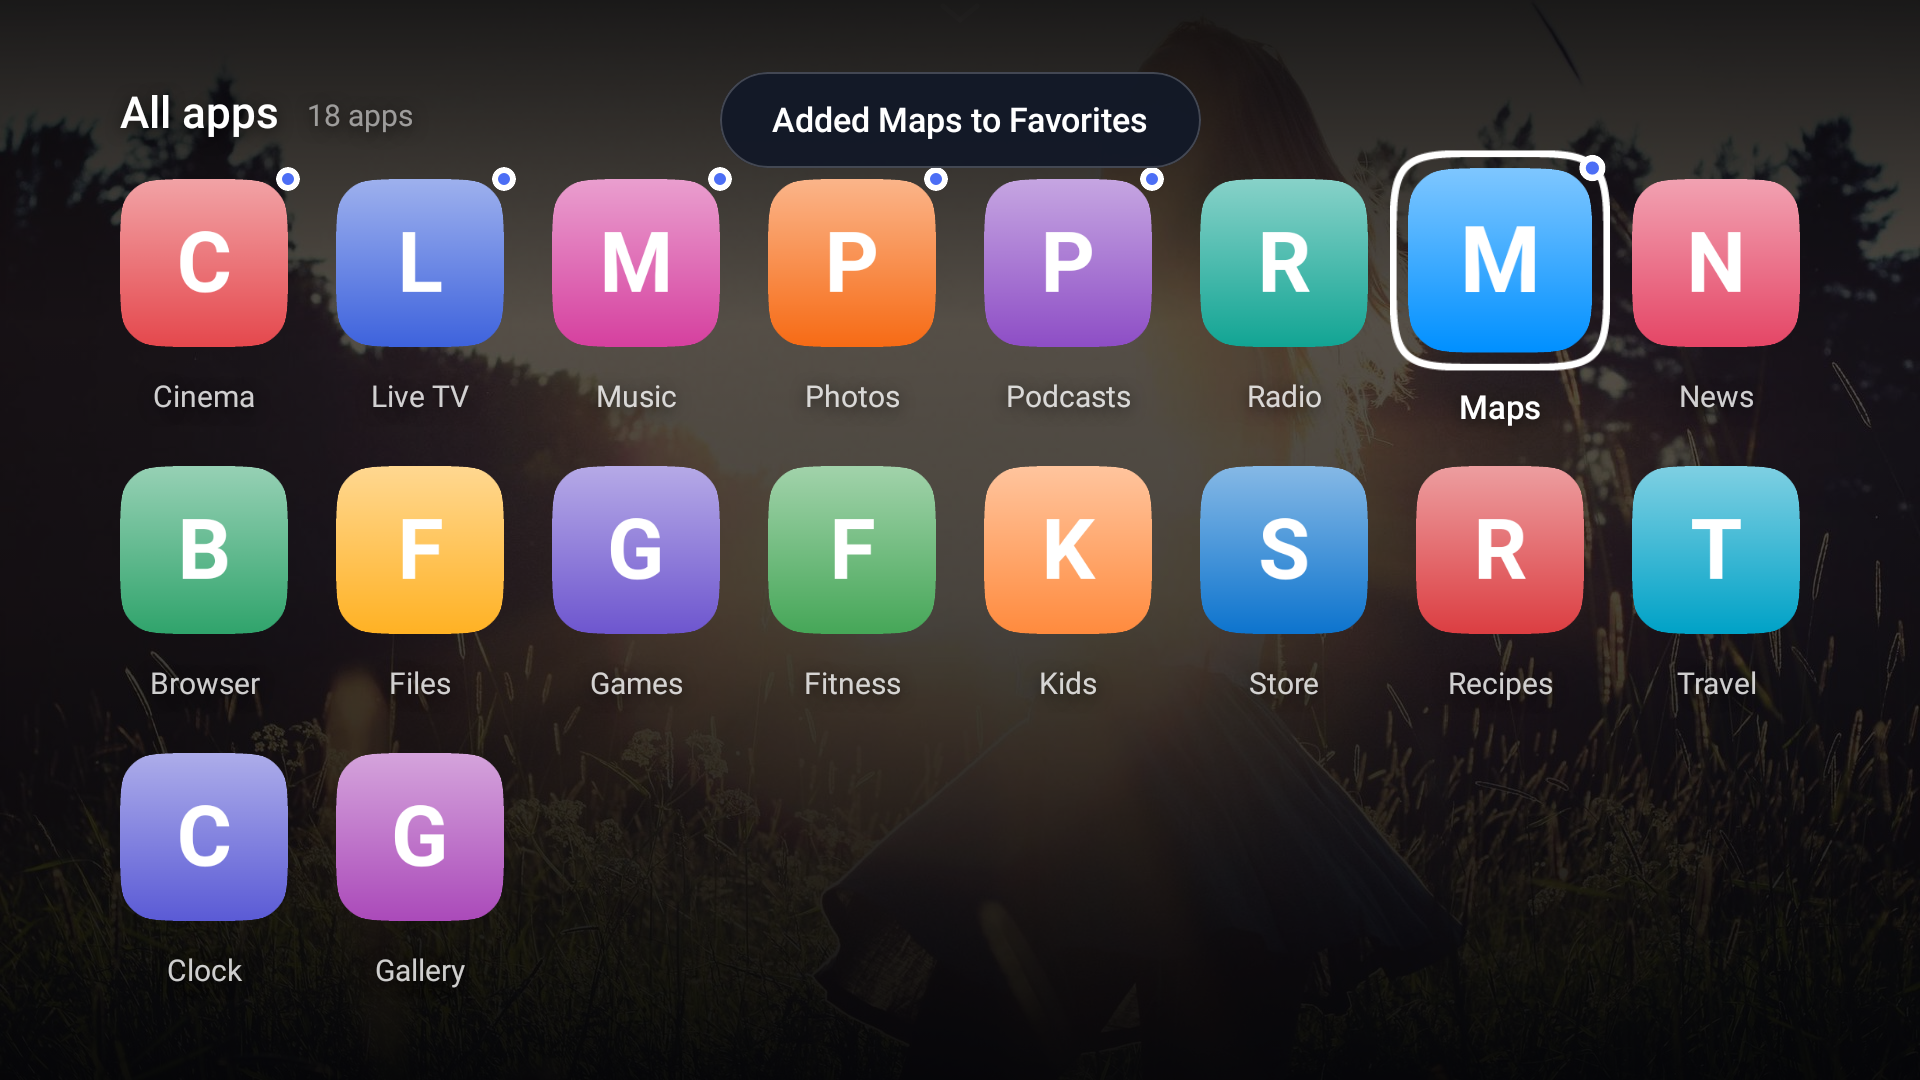
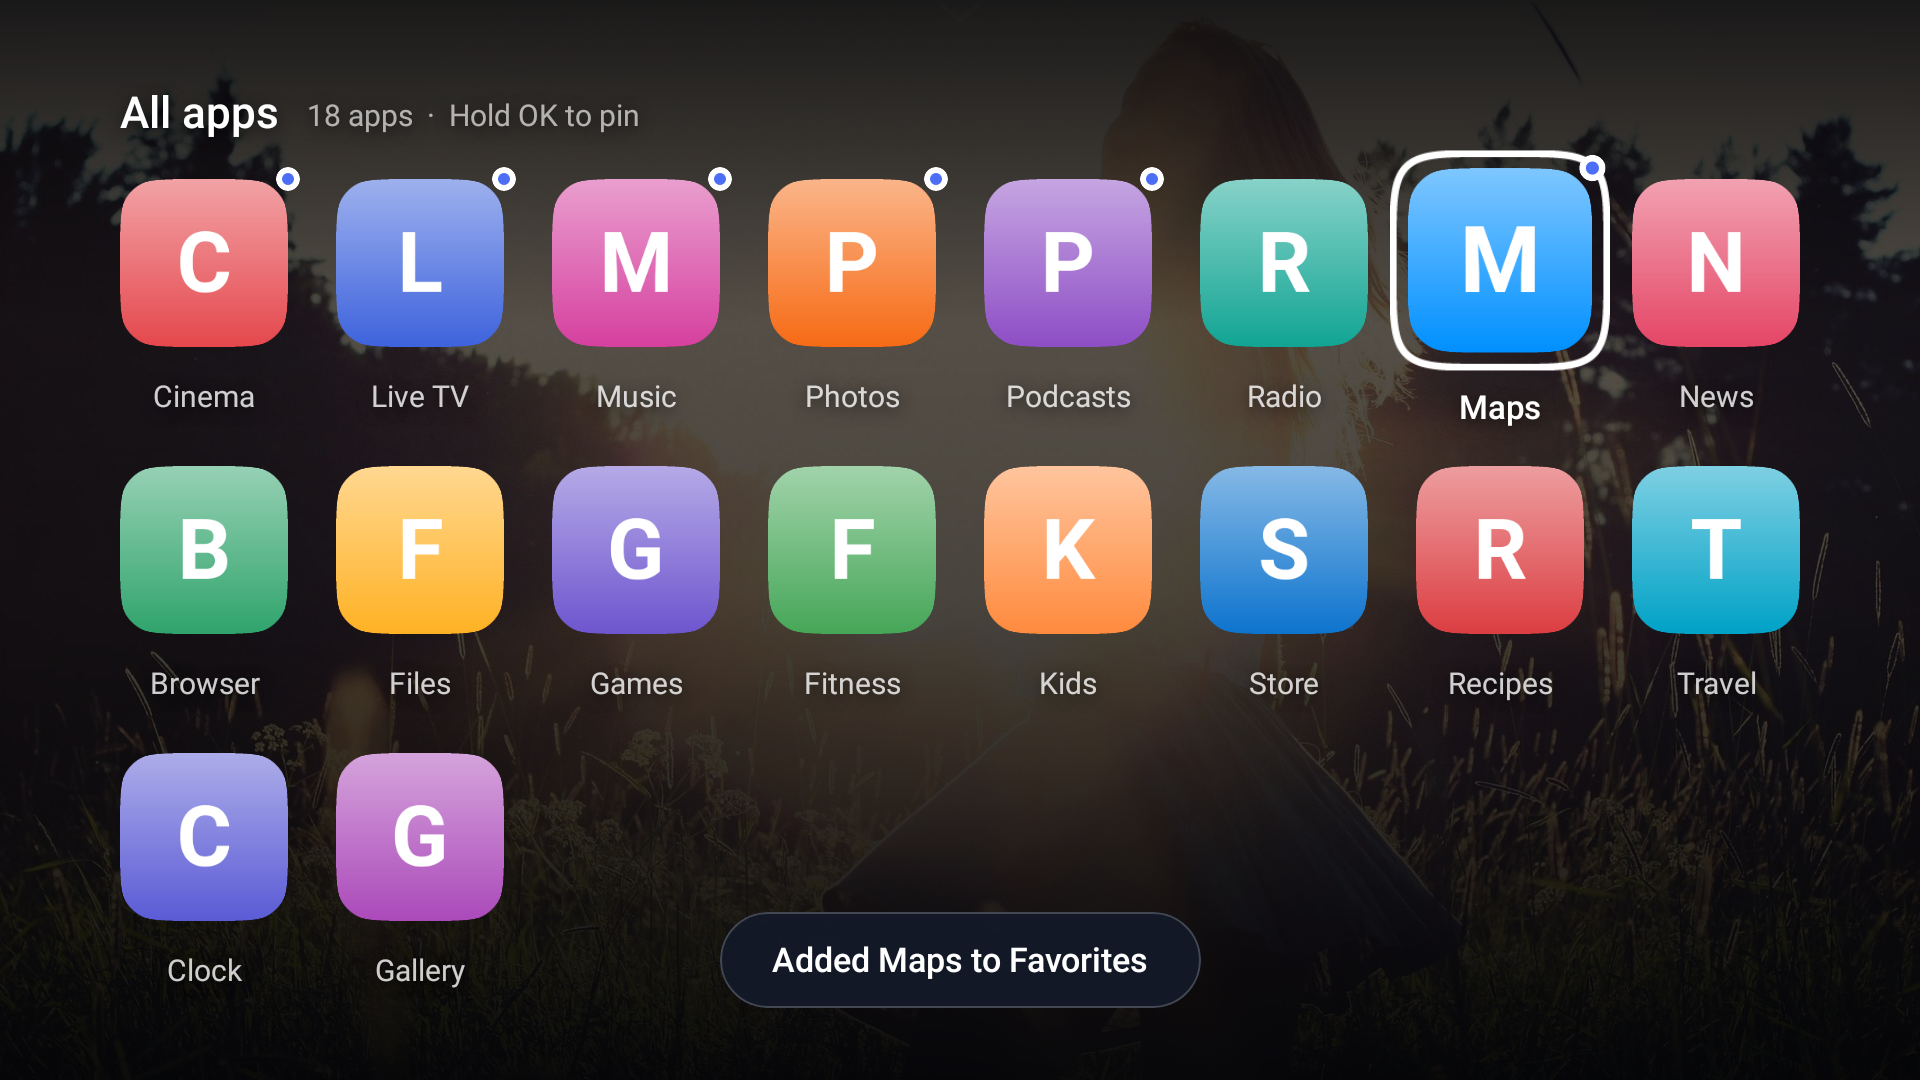
Pill Launcher 1.2: Back/Home behaviour and UI polish (#6)
* Iron out UI quirks: Back/Home return to the first page, toast clear of the weather

- Back in All apps and Home while already home return to the first page
  (Home also closes settings)
- The pin/unpin message moves to the bottom so it no longer covers the weather
- The favourites row bleeds into the margins so a focused tile's ring is not
  clipped at the left edge
- The All apps arrow bobs three times and stops instead of animating forever,
  so the home screen can go idle
- Weather fades in when it arrives instead of popping in
- First-page focus retries frame by frame instead of trusting a fixed delay
- All apps hint mentions Hold OK to pin; faint text slightly more legible

Claude-Session: https://claude.ai/code/session_01K2a1gPavAD836buEZXZJS4

* Update README screenshots

* Fix first-page focus landing on the pill before the favourites row registers

Claude-Session: https://claude.ai/code/session_01K2a1gPavAD836buEZXZJS4

* Update README screenshots

* Version 1.2

Claude-Session: https://claude.ai/code/session_01K2a1gPavAD836buEZXZJS4

---------

Changed region(s): [[0.375, 0.8556, 0.625, 0.9472], [0.375, 0.0917, 0.625, 0.1528], [0.2188, 0.0917, 0.3438, 0.1222]]

diff --git a/app/src/main/java/app/pill/launcher/ui/LauncherScreen.kt b/app/src/main/java/app/pill/launcher/ui/LauncherScreen.kt
@@ -1,6 +1,17 @@
 package app.pill.launcher.ui
 
+import androidx.activity.compose.BackHandler
+import androidx.compose.animation.AnimatedContent
 import androidx.compose.animation.AnimatedVisibility
+import androidx.compose.animation.core.Animatable
+import androidx.compose.animation.togetherWith
+import androidx.compose.foundation.layout.PaddingValues
+import androidx.compose.runtime.rememberCoroutineScope
+import androidx.compose.runtime.rememberUpdatedState
+import androidx.compose.runtime.withFrameNanos
+import androidx.compose.ui.layout.layout
+import androidx.compose.ui.unit.Dp
+import kotlinx.coroutines.launch
 import androidx.compose.animation.core.AnimationSpec
 import androidx.compose.animation.core.FastOutSlowInEasing
 import androidx.compose.animation.core.RepeatMode
@@ -91,6 +102,8 @@ fun LauncherScreen(
     onOpen: (AppEntry) -> Unit,
     onTogglePin: (AppEntry) -> Unit,
     onOpenSystemSettings: () -> Unit,
+    /** Bumped each time Home is pressed while the launcher is already showing. */
+    homePresses: Int = 0,
 ) {
     var panelOpen by remember { mutableStateOf(false) }
     var initialFocusDone by remember { mutableStateOf(false) }
@@ -114,14 +127,40 @@ fun LauncherScreen(
         toast = Toast(if (wasPinned) "Removed ${app.label} from Favorites" else "Added ${app.label} to Favorites")
     }
 
-    // First launch: focus the first favourite, else the settings pill, so the opening view is the first page
+    val scroll = rememberScrollState()
+    val scope = rememberCoroutineScope()
+    val currentPinned by rememberUpdatedState(pinnedApps)
+
+    // Focus the first favourite, else the settings pill. Page scrolling then brings the first
+    // page into view. Retries for a few frames until the target is attached.
+    suspend fun focusFirstPage() {
+        repeat(30) {
+            withFrameNanos { }
+            // The favourites row registers its tiles a frame or two after it first composes,
+            // so look the target up on every try and only use the pill when there are no favourites
+            val first = currentPinned.firstOrNull()
+            val target = if (first == null) pillFocus else favoriteFocus[first.pkg]
+            if (target != null && runCatching { target.requestFocus() }.isSuccess) return
+        }
+        runCatching { pillFocus.requestFocus() }
+    }
+
     LaunchedEffect(apps != null) {
         if (apps == null || initialFocusDone) return@LaunchedEffect
-        delay(150)
-        val target = pinnedApps.firstOrNull()?.let { favoriteFocus[it.pkg] } ?: pillFocus
-        runCatching { target.requestFocus() }
+        focusFirstPage()
         initialFocusDone = true
     }
+
+    // Home while already home: close settings and go back to the first page
+    LaunchedEffect(homePresses) {
+        if (homePresses == 0) return@LaunchedEffect
+        panelOpen = false
+        focusFirstPage()
+    }
+
+    // Back in All apps returns to the first page (on the first page, Back does nothing)
+    val scrolled by remember { derivedStateOf { scroll.value > 0 } }
+    BackHandler(enabled = scrolled && !panelOpen) { scope.launch { focusFirstPage() } }
 
     // Return focus to the pill when the settings panel closes
     LaunchedEffect(panelOpen) {
@@ -160,7 +199,6 @@ fun LauncherScreen(
             val pageEdge = maxHeight * PAGE_EDGE
             val pageHeightPx = with(LocalDensity.current) { pageHeight.toPx() }
             val columns = ((maxWidth - Spacing.ScreenH * 2) / tileWidth(GridIcon)).toInt().coerceAtLeast(1)
-            val scroll = rememberScrollState()
             // 0 on the first page, 1 once the grid fills the screen; dims the photo behind the apps
             val depth by remember(pageHeightPx) { derivedStateOf { (scroll.value / pageHeightPx).coerceIn(0f, 1f) } }
             Box(Modifier.fillMaxSize().alpha(depth).background(Color(0x8C05070D)))
@@ -181,11 +219,21 @@ fun LauncherScreen(
                     Column(Modifier.fillMaxWidth().height(pageHeight)) {
                         Row(Modifier.fillMaxWidth().padding(horizontal = Spacing.Tile), verticalAlignment = Alignment.Top) {
                             TimeWidget()
-                            if (weather != null) {
-                                Spacer(Modifier.width(36.dp))
-                                Box(Modifier.padding(top = 18.dp).width(1.dp).height(84.dp).background(Palette.Hairline))
-                                Spacer(Modifier.width(36.dp))
-                                WeatherWidget(weather, settings.weather, Modifier.padding(top = 12.dp))
+                            // Fades in once the first reading arrives (and out when turned off)
+                            AnimatedContent(
+                                targetState = weather,
+                                transitionSpec = { fadeIn(tween(500)) togetherWith fadeOut(tween(300)) },
+                                contentKey = { it != null },
+                                label = "weatherSlot",
+                            ) { w ->
+                                if (w != null) {
+                                    Row {
+                                        Spacer(Modifier.width(36.dp))
+                                        Box(Modifier.padding(top = 18.dp).width(1.dp).height(84.dp).background(Palette.Hairline))
+                                        Spacer(Modifier.width(36.dp))
+                                        WeatherWidget(w, settings.weather, Modifier.padding(top = 12.dp))
+                                    }
+                                }
                             }
                             Spacer(Modifier.weight(1f))
                             SettingsPill(
@@ -204,7 +252,12 @@ fun LauncherScreen(
                             } else {
                                 // The favourites row scrolls sideways the platform's usual way
                                 CompositionLocalProvider(LocalBringIntoViewSpec provides rowScrolling) {
-                                    LazyRow(horizontalArrangement = Arrangement.spacedBy(8.dp)) {
+                                    // Widened into the side margins so a focused tile's ring is not clipped
+                                    LazyRow(
+                                        modifier = Modifier.bleed(RowBleed),
+                                        contentPadding = PaddingValues(horizontal = RowBleed),
+                                        horizontalArrangement = Arrangement.spacedBy(8.dp),
+                                    ) {
                                         items(pinnedApps, key = { it.pkg }) { app ->
                                             val requester = favoriteFocus.getOrPut(app.pkg) { FocusRequester() }
                                             AppTile(
@@ -229,7 +282,7 @@ fun LauncherScreen(
 
                     SectionTitle(
                         "All apps",
-                        hint = apps?.let { if (it.size == 1) "1 app" else "${it.size} apps" },
+                        hint = apps?.let { (if (it.size == 1) "1 app" else "${it.size} apps") + "  ·  Hold OK to pin" },
                         modifier = Modifier.padding(top = 10.dp, bottom = 6.dp),
                     )
                     for (row in apps.orEmpty().chunked(columns)) {
@@ -256,9 +309,10 @@ fun LauncherScreen(
 
         AnimatedVisibility(
             visible = toastVisible,
-            modifier = Modifier.align(Alignment.TopCenter).padding(top = 36.dp),
-            enter = fadeIn() + slideInVertically { -it / 2 },
-            exit = fadeOut() + slideOutVertically { -it / 2 },
+            // Bottom centre: clear of the clock and weather on the first page
+            modifier = Modifier.align(Alignment.BottomCenter).padding(bottom = 36.dp),
+            enter = fadeIn() + slideInVertically { it / 2 },
+            exit = fadeOut() + slideOutVertically { it / 2 },
         ) {
             ToastChip(toast?.message.orEmpty())
         }
@@ -313,6 +367,17 @@ private class PageScrollSpec(
     }
 }
 
+private val RowBleed = 16.dp
+
+/** Lets a horizontally clipped child extend [x] past its parent on both sides. */
+private fun Modifier.bleed(x: Dp) = layout { measurable, constraints ->
+    val extra = (x * 2).roundToPx()
+    val placeable = measurable.measure(
+        constraints.copy(minWidth = constraints.minWidth + extra, maxWidth = constraints.maxWidth + extra),
+    )
+    layout(constraints.maxWidth, placeable.height) { placeable.place(-x.roundToPx(), 0) }
+}
+
 /** A short confirmation message. A new instance restarts the hide timer even for the same text. */
 private class Toast(val message: String)
 
@@ -321,18 +386,21 @@ private class Refocus(val pkg: String?)
 /** "All apps" and a gently bobbing chevron at the bottom of the first page. */
 @Composable
 private fun MoreBelow(count: Int?, modifier: Modifier = Modifier) {
-    val bob by rememberInfiniteTransition(label = "moreBelow").animateFloat(
-        initialValue = 0f,
-        targetValue = 1f,
-        animationSpec = infiniteRepeatable(tween(1100, easing = FastOutSlowInEasing), RepeatMode.Reverse),
-        label = "bob",
-    )
+    // A few gentle bobs, then still: an endless animation would keep the TV redrawing every frame
+    val bob = remember { Animatable(0f) }
+    LaunchedEffect(Unit) {
+        delay(1500)
+        repeat(3) {
+            bob.animateTo(1f, tween(500, easing = FastOutSlowInEasing))
+            bob.animateTo(0f, tween(500, easing = FastOutSlowInEasing))
+        }
+    }
     Column(modifier, horizontalAlignment = Alignment.CenterHorizontally, verticalArrangement = Arrangement.Center) {
         Text(
             if (count != null) "All apps  ·  $count" else "All apps",
             style = TextStyle(color = Palette.TextSecondary, fontSize = 15.sp, fontWeight = FontWeight.Medium, shadow = TextShadow),
         )
-        Canvas(Modifier.padding(top = 4.dp).size(width = 22.dp, height = 12.dp).offset(y = (bob * 4).dp)) {
+        Canvas(Modifier.padding(top = 4.dp).size(width = 22.dp, height = 12.dp).offset(y = (bob.value * 4).dp)) {
             val w = size.width
             val h = size.height
             val stroke = 2.5.dp.toPx()

diff --git a/app/src/main/java/app/pill/launcher/MainActivity.kt b/app/src/main/java/app/pill/launcher/MainActivity.kt
@@ -24,6 +24,7 @@ private const val RETRY_MS = 2 * 60 * 1000L
 class MainActivity : ComponentActivity() {
 
     private var refresh by mutableIntStateOf(0)
+    private var homePresses by mutableIntStateOf(0)
     private lateinit var store: SettingsStore
 
     override fun onCreate(savedInstanceState: Bundle?) {
@@ -63,6 +64,7 @@ class MainActivity : ComponentActivity() {
                     pins = if (app.pkg in pins) pins - app.pkg else pins + app.pkg
                     store.savePins(pins)
                 },
+                homePresses = homePresses,
                 onOpenSystemSettings = {
                     try {
                         startActivity(
@@ -74,6 +76,12 @@ class MainActivity : ComponentActivity() {
                 },
             )
         }
+    }
+
+    // singleTask: pressing Home while the launcher exists arrives here
+    override fun onNewIntent(intent: Intent) {
+        super.onNewIntent(intent)
+        if (intent.hasCategory(Intent.CATEGORY_HOME)) homePresses++
     }
 
     override fun onResume() {

diff --git a/app/src/main/java/app/pill/launcher/ui/Theme.kt b/app/src/main/java/app/pill/launcher/ui/Theme.kt
@@ -14,7 +14,7 @@ object Palette {
 
     val TextPrimary = Color.White
     val TextSecondary = Color(0xCCFFFFFF)
-    val TextTertiary = Color(0x8CFFFFFF)
+    val TextTertiary = Color(0xA6FFFFFF)
 
     val Glass = Color(0x33FFFFFF)
     val GlassStrong = Color(0x4DFFFFFF)

diff --git a/CHANGELOG.md b/CHANGELOG.md
@@ -3,6 +3,18 @@
 Pill Launcher is built from `main` on every change; the newest build is always the
 [`latest` release](https://github.com/S1rHades/One-TVOS/releases/tag/latest).
 
+## 1.2 (October 2026)
+
+**Smoother everyday use**
+- **Back** in All apps and **Home** while already home take you back to the first page (Home also closes settings).
+- The pin/unpin message now appears at the bottom, so it no longer covers the weather.
+- The focus ring on the first favourite is no longer cut off at the left edge.
+- The weather fades in when it arrives instead of popping in.
+- Focus reliably starts on your first favourite.
+- The "All apps" arrow bobs a few times and then rests, so the TV is not redrawing the screen constantly.
+- All apps shows "Hold OK to pin", and small grey text is easier to read over bright photos.
+- Updates now install over the previous version: builds are signed with one permanent key. (Uninstall once more before installing this version.)
+
 ## 1.1 (October 2026)
 
 **A calmer home screen**
